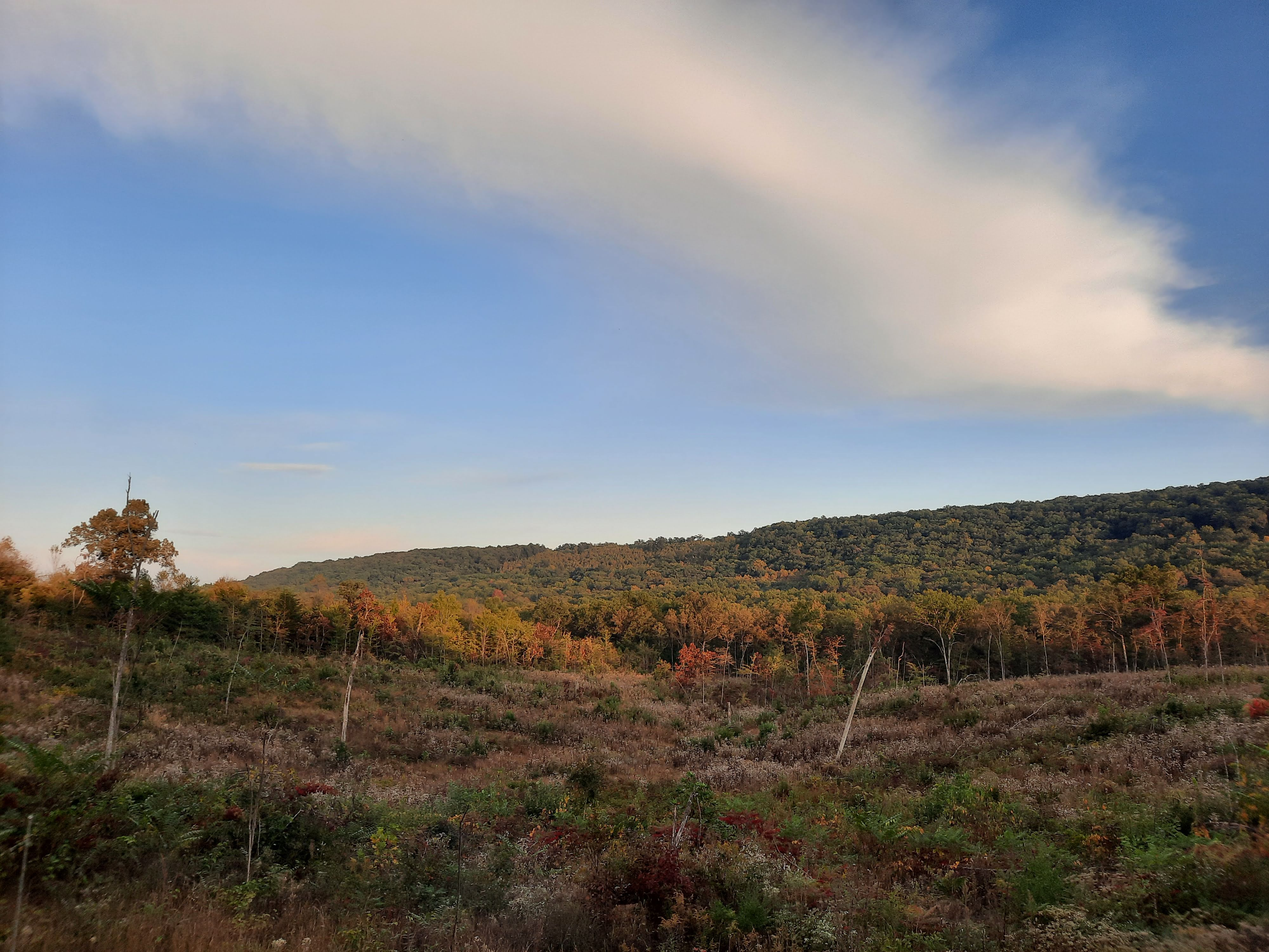
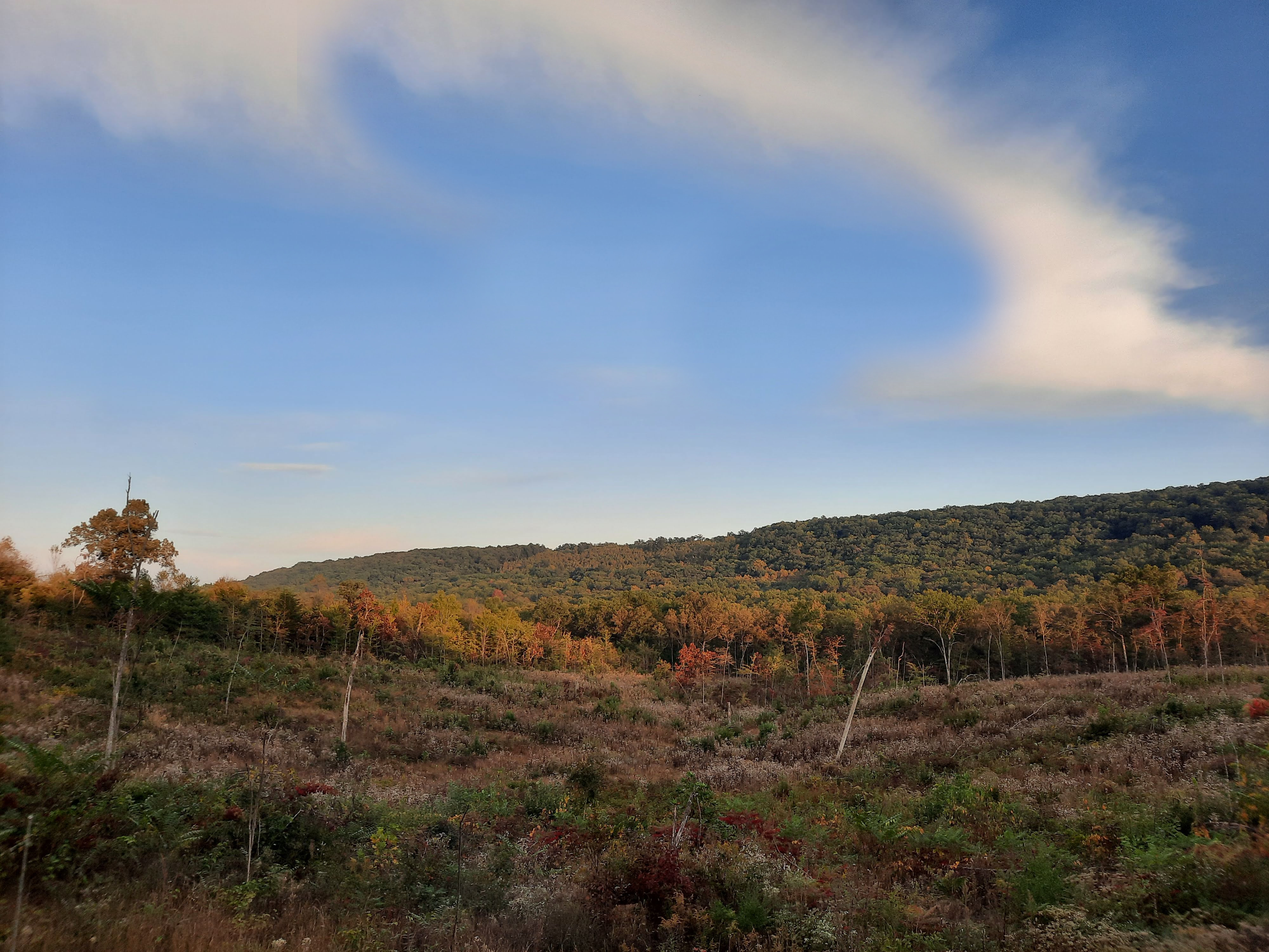
imagelink

Changed region(s): [[0.25, 0.0, 0.8125, 0.403]]

diff --git a/final_project/catoosa.html b/final_project/catoosa.html
@@ -10,64 +10,68 @@
     <link href="https://fonts.googleapis.com/css2?family=Permanent+Marker&display=swap" rel="stylesheet">
     <link rel="stylesheet" href="css/styles.css">
 </head>
-  <!-- START BODY-->
+
 <body>
+    <hr>
+    <!--Navigation Menu-->
+    <nav>
+      <ul>
+        <li><a href="index.html">HOME</a></li>
+        <li><a href="about.html">ABOUT</a></li>
+        <li><a href="grey_gables.html">GREYGABLES</a></li>
+        <li><a href="catoosa.html">CATOOSA</a></li>
+        <li><a href="loco_burro.html">LOCOBURRO</a></li>
+      </ul>
+    </nav>
+          <!--END Navigation Menu - NAV ID DIV-->
+  <!-- START BODY-->
 <main>
-      <div id="nav">
       <hr>
-      <!--Navigation Menu-->
-      <nav>
-        <ul>
-          <li><a href="index.html">HOME</a></li>
-          <li><a href="about.html">ABOUT</a></li>
-          <li><a href="grey_gables.html">GREYGABLES</a></li>
-          <li><a href="catoosa.html">CATOOSA</a></li>
-          <li><a href="loco_burro.html">LOCOBURRO</a></li>
-        </ul>
-      </nav>
-      </div>
-            <!--END Navigation Menu - NAV ID DIV-->
-      <hr>
-      <!--MAIN TOPIC-->
+      <!--START TOP PANEL VIDEO SECTION-->
       <div id="top">
       <div class="container">
-        GPS COORDS: Lat-Long: 36.08204, -84.94926
+        <video autoplay loop muted>
+          <source src="videos/ocean2160p.mp4" type="video/mp4">
+          </video>
       </div>
-      <!--END Main Topic - NAV ID TOP-->
+      <!--END TOP PANEL VIDEO SECTION-->
       <!--BEGIN WELCOME MESSAGE CONTAINER - WELCOME ID DIV-->
 <div id="welcome">
   <div class="container">
-<h1>Welcome to Catoosa Wildlife Management Area</h1>
-</div>  
-<!--END WELCOME MESSAGE CONTAINER - WELCOME ID DIV-->
-  <h2>Lat-Long: 36.08204, -84.94926</h2>
-  <p>Crossville, TN - Cumberland County TN</p>
-  <p> <a href="https://www.explorecrossville.com/directory/catoosa-wildlife-management-area/" target="blank">Explore Crossville - Resources</a></p>
-<div id="lower">
+  <h1>Welcome to Catoosa Wildlife Management Area</h1>
+  <p>Potters Ford Rd – Lat-Long: 36.08204, -84.94926</p>
+  <br>
+  <h2>We live in such a diverse world and no matter who you meet, or where you're at, you will never meet another person or be in that exact moment of time again.
+    Enjoy the moments while you have them and take photos to remember them for years to come! Some people enjoy video games, watching Netflix, or making websites. I enjoy travelling with my wife of 20 years, Melissa, and our rescue "road dog", Mia. 
+    This website is my personal opinion of some <i>hidden gems</i> that you may not know about in Tennessee that have stolen our heart.
+    When traveling in these areas, it is well worth the stop. Even if you cannot stay the night in the Inn, or get a table at the Burro, it is just as much fun to simply experience the environment.</h2>    
+      <a href="images/TheThreeOfUs.jpg"> <img src="images/TheThreeOfUs.jpg" alt="The traveling trio photo"> </a>
+  </main>
+  <div id="lower">
   <div class="lower">
-            <div id="column1">
-              <div class="column1">
-                <h2>Catoosa WMA</h2>
-                <a href="catoosa.html"><img src="images/Catoosa2019.jpg" alt="Catoosa Wildlife Management Area photo of trees"></a>
-              </div>   
-              <p>Catoosa Wildlife Management Area is located in Cumberland County, Tennessee.
-                800 acres of protected wildlife.
-              </p>
-              </div>  
-              <div id="column2">
-                <div class="column2">
-                  <h3>Amazing Views!</h3>
-                </div>
-                <a href="burro.html"><img src="images/Locoburromainimg.JPG" alt="Loco Burro Gatlinburg TN photo"></a>
-                <h3>Column 2</h3>
-              </div>
-                <div id="column3">
-                  <h3>Live Animals</h3>
-                  <a href="grey_gables.html"><img src="images/gables.png" alt="Grey Gables Bed and Breakfast Gatlinburg TN photo"></a>
-                  <h3>Column 3</h3>
-        </main>
+  <div style="text-align: center;">
+    <div style="width: 100%; margin: 0 auto; padding: 40px;">
+  </div>
+
+    <div id="column1">
+      <a class="button" a href="catoosa.html">#1 <br> Catoosa Wildlife</a>
+          <a href="catoosa.html"><img src="images/CatoosaDevilsBreakfast.jpg" alt="Catoosa Wildlife Management Crossville TN photo"> <br> More than 800 acres of wildlife located about 8 miles off I40 in Crossville TN. </a>
+    </div>
+      <div id="column2">
+        <a class="button" a href="grey_gables.html">#2 <br> Grey Gables B&B</a>
+        <a href="grey_gables.html"><img src="images/gables.png" alt="Grey Gables Bed and Breakfast Rugby TN photo"> <br> A fabulous Bed and Breakfast located within walking distance to Historic Rugby TN.</a>
+    </div>
+      <div id="column3">
+        <a class="button" a href="loco_burro.html">#3 <br> Loco Burro Mex</a>
+        <a href="loco_burro.html"><img src="images/Locoburromainimg.JPG" alt="Loco Burro Restaurant Gatlinburg TN photo"> <br> A necessary stop anytime we go to Gatlinburg, TN. Enjoy the rooftop patio!</a>
+        <br>
+    </div>
+    </div>
+        </div>
+  </div>
+</div>
 <h2>
-  Your Adventure Awaits - Get Moving!
+  Your Adventure Awaits!
 </h2>
   <footer>@Joshua Hesser - Final Project - Hidden Gems in Tennessee</footer>
 </body>

diff --git a/final_project/css/styles.css b/final_project/css/styles.css
@@ -110,7 +110,7 @@ video {
     padding: 1px;
     border: 1px solid #000000;
     text-align: center;
-    background-image: url(https://jthesser.github.io/CITC-1300-N02/final_project/images/CatoosaAdventure.jpg);
+    background-image: url(https://jthesser.github.io/CITC-1300-N02/final_project/images/CatoosaAdventure2.jpg);
     background-origin: content-box;
     background-size: contain;
     background-repeat: no-repeat;
@@ -225,7 +225,7 @@ hr {
         padding: 10px;
         border: 1px solid #000000;
         text-align: center;
-        background-image: url(https://jthesser.github.io/CITC-1300-N02/final_project/images/CatoosaAdventure.jpg);
+        background-image: url(https://jthesser.github.io/CITC-1300-N02/final_project/images/CatoosaAdventure2.jpg);
         background-origin: content-box;
         background-size: contain;
         background-repeat: no-repeat;
